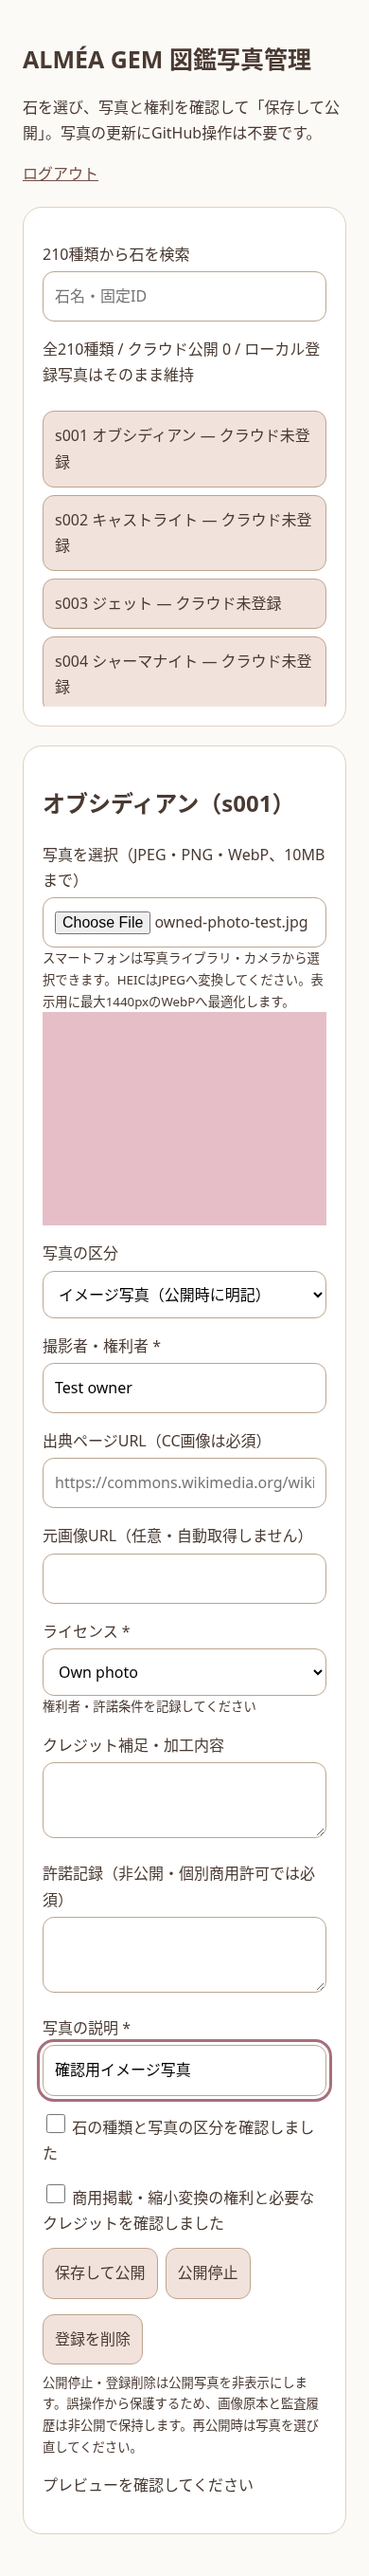
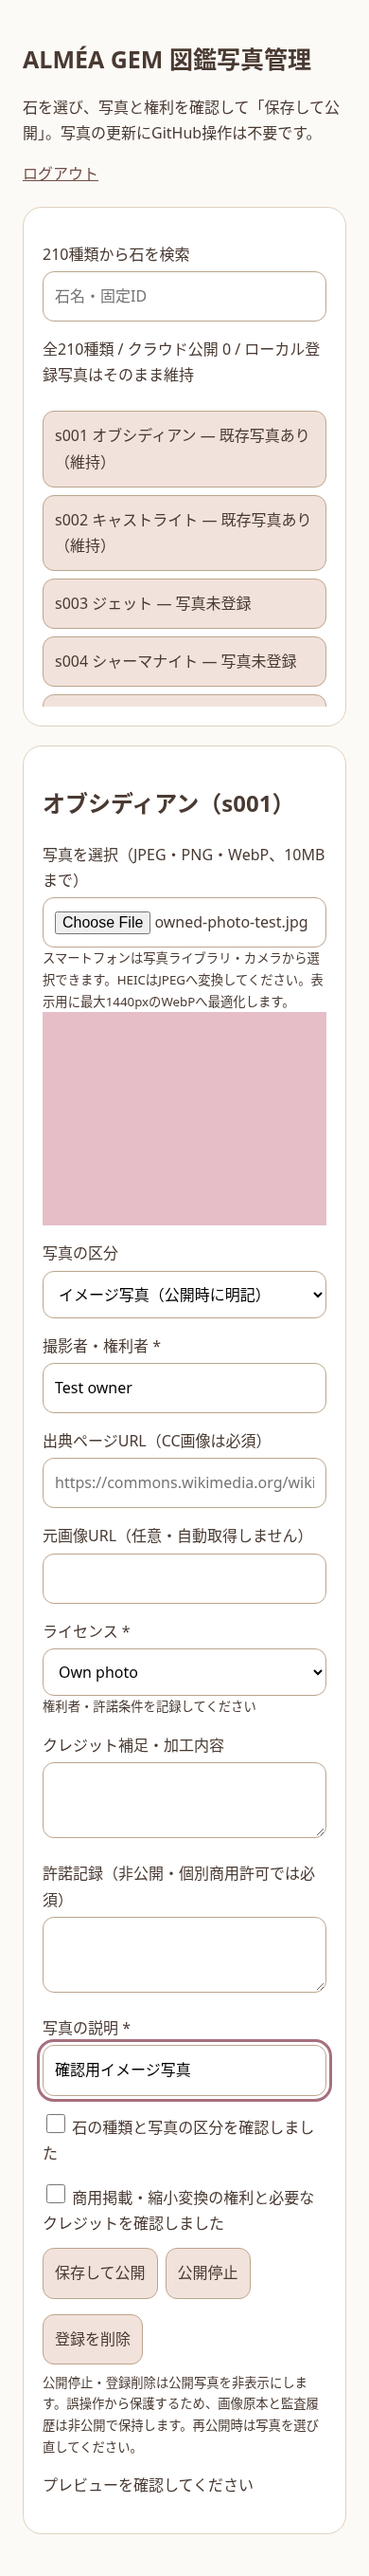
feat: preserve existing image registrations in cloud publishing workflow

diff --git a/cloud/photos/ui.ts b/cloud/photos/ui.ts
@@ -16,14 +16,14 @@ export const adminHtml = `<!doctype html><html lang="ja"><meta charset="utf-8"><
 <script>
 let data,selected,image='',busy=false,previewUrl='',generation=0;const $=id=>document.getElementById(id);const fields=['kind','photographer','sourceUrl','originalUrl','license','credit','permissionNote','alt'];
 function message(s){$('status').textContent=s}function row(){return data.photos.find(p=>p.stoneId===selected.id)}
-function render(){const term=$('search').value.trim().toLowerCase();const n=data.photos.filter(p=>p.state==='published').length;$('counts').textContent='全210種類 / クラウド公開 '+n+' / ローカル登録写真はそのまま維持';$('list').replaceChildren();data.stones.filter(s=>!term||(s.name+' '+s.id).toLowerCase().includes(term)).forEach(s=>{const p=data.photos.find(p=>p.stoneId===s.id),b=document.createElement('button');b.type='button';b.textContent=s.id+' '+s.name+' — '+(!p?'クラウド未登録':p.state==='published'?'公開中':p.state==='paused'?'公開停止':'登録削除');b.onclick=()=>choose(s);b.disabled=busy;$('list').append(b)})}
+function render(){const term=$('search').value.trim().toLowerCase();const n=data.photos.filter(p=>p.state==='published').length;$('counts').textContent='全210種類 / クラウド公開 '+n+' / ローカル登録写真はそのまま維持';$('list').replaceChildren();data.stones.filter(s=>!term||(s.name+' '+s.id).toLowerCase().includes(term)).forEach(s=>{const p=data.photos.find(p=>p.stoneId===s.id),b=document.createElement('button');b.type='button';b.textContent=s.id+' '+s.name+' — '+(!p?(data.localPhotos.includes(s.id)?'既存写真あり（維持）':'写真未登録'):p.state==='published'?'公開中':p.state==='paused'?'公開停止':'登録削除');b.onclick=()=>choose(s);b.disabled=busy;$('list').append(b)})}
 function choose(s){generation++;selected=s;image='';$('form').reset();$('file').value='';$('preview').hidden=true;$('target').textContent=s.name+'（'+s.id+'）';const p=row();fields.forEach(k=>$(k).value=p?.[k]||(k==='kind'?'real':k==='alt'?s.name+'の写真':''));$('identity').checked=false;$('rights').checked=false;if(p?.state==='published'){$('preview').src='/public/image/'+s.id+'?v='+p.revision;$('preview').hidden=false}licenseInfo();message('写真を選び、内容を確認してください');$('target').scrollIntoView({block:'start',behavior:'smooth'})}
-function licenseInfo(){$('licenseLink').textContent=data?.licenses[$('license').value]||'権利者・許諾条件を記録してください'}
+function licenseInfo(){if($('license').value==='AI-generated')$('kind').value='illustrative';$('licenseLink').textContent=data?.licenses[$('license').value]||'権利者・許諾条件を記録してください'}
 async function load(){const r=await fetch('/api/stones',{cache:'no-store'});if(!r.ok)throw Error('ログインまたは設定を確認してください');data=await r.json();render()}
 fields.forEach(k=>$(k).addEventListener('change',()=>{$('identity').checked=false;$('rights').checked=false}));
 $('search').oninput=render;$('license').onchange=licenseInfo;
 $('file').onchange=async()=>{const version=++generation;image='';$('preview').hidden=true;try{const f=$('file').files[0];if(!f)return;if(!['image/jpeg','image/png','image/webp'].includes(f.type)||f.size>10000000)throw Error('JPEG・PNG・WebP、10MB以内を選択してください（HEICは変換が必要です）');const bitmap=await createImageBitmap(f);if(bitmap.width*bitmap.height>40000000){bitmap.close();throw Error('4000万画素以内の写真を選択してください')}const scale=Math.min(1,1440/Math.max(bitmap.width,bitmap.height)),canvas=document.createElement('canvas');canvas.width=Math.max(1,Math.round(bitmap.width*scale));canvas.height=Math.max(1,Math.round(bitmap.height*scale));canvas.getContext('2d').drawImage(bitmap,0,0,canvas.width,canvas.height);bitmap.close();const blob=await new Promise(r=>canvas.toBlob(r,'image/webp',.85));if(!blob||blob.type!=='image/webp'||blob.size>2000000)throw Error('画像の最適化ができません。小さい画像または別のブラウザをお試しください');if(version!==generation)return;if(previewUrl)URL.revokeObjectURL(previewUrl);previewUrl=URL.createObjectURL(blob);$('preview').src=previewUrl;$('preview').hidden=false;const bytes=new Uint8Array(await blob.arrayBuffer());let str='';for(let i=0;i<bytes.length;i+=8192)str+=String.fromCharCode(...bytes.subarray(i,i+8192));if(version!==generation)return;image=btoa(str);$('identity').checked=false;$('rights').checked=false;message('プレビューを確認してください')}catch(e){message(e.message)}};
 async function act(action){if(busy)return;if(!selected)return message('石を選んでください');if(action==='publish'&&(!image||!$('form').reportValidity()))return message('写真・必須項目・確認チェックを確認してください');if(action!=='publish'&&!confirm(action==='pause'?'写真を公開停止しますか？':'写真の登録を削除し、公開を停止しますか？（原本は非公開で保管）'))return;const body={expectedRevision:row()?.revision||'',image,identityConfirmed:$('identity').checked,rightsConfirmed:$('rights').checked};fields.forEach(k=>body[k]=$(k).value);busy=true;$('form').querySelectorAll('input,select,textarea,button').forEach(b=>b.disabled=true);render();try{const r=await fetch('/api/photos/'+selected.id+'/'+action,{method:'POST',headers:{'Content-Type':'application/json','X-Almea-Action':'photo'},body:JSON.stringify(body)});const out=await r.json();if(!r.ok)throw Error(out.error);await load();message(action==='publish'?'保存・公開しました。公開サイトを再読込して確認してください。':'公開写真を非表示にしました。公開サイトを再読込して確認してください。')}catch(e){message(e.message+'。入力内容は保持されています。通信失敗の場合は再読込して登録状態を確認してください。')}finally{busy=false;$('form').querySelectorAll('input,select,textarea,button').forEach(b=>b.disabled=false);render()}}
 $('form').onsubmit=e=>{e.preventDefault();act('publish')};$('pause').onclick=()=>act('pause');$('delete').onclick=()=>act('delete');
-load().then(()=>{Object.keys(data.licenses).forEach(v=>{const o=document.createElement('option');o.value=v;o.textContent=v;$('license').append(o)})}).catch(e=>message(e.message));
+load().then(()=>{Object.keys(data.licenses).forEach(v=>{const o=document.createElement('option');o.value=v;o.textContent=v==='AI-generated'?'AI-generated（イメージ写真のみ）':v;$('license').append(o)})}).catch(e=>message(e.message));
 </script></html>`;

diff --git a/cloud/photos/worker.ts b/cloud/photos/worker.ts
@@ -2,6 +2,7 @@ import type { D1Database, R2Bucket } from '@cloudflare/workers-types';
 import { createRemoteJWKSet, jwtVerify } from 'jose';
 import stones from '../../src/content/stones.json' with { type: 'json' };
 import { adminHtml } from './ui';
+import localPhotos from '../../src/content/images.json' with { type: 'json' };
 
 export interface Env {
   DB: D1Database;
@@ -18,6 +19,7 @@ const licenses: Record<string, string> = {
   CC0: 'https://creativecommons.org/publicdomain/zero/1.0/',
   'Own photo': '',
   'Commercial permission': '',
+  'AI-generated': '',
 };
 for (const kind of ['by', 'by-sa']) {
   for (const version of ['2.0', '2.5', '3.0', '4.0']) {
@@ -82,8 +84,13 @@ export function validateMetadata(value: Record<string, unknown>): Metadata {
       );
     }
   }
+  if (license === 'AI-generated' && value.kind !== 'illustrative')
+    throw Error('AI生成画像はイメージ写真として登録してください');
   const permissionNote = text('permissionNote', 3000);
-  if (license === 'Commercial permission' && permissionNote.length < 10)
+  if (
+    ['Commercial permission', 'AI-generated'].includes(license) &&
+    permissionNote.length < 10
+  )
     throw Error('商用利用許諾の記録を10文字以上で残してください');
   return {
     kind: value.kind,
@@ -214,6 +221,9 @@ export async function handle(
     const rows = await env.DB.prepare('SELECT * FROM photos').all<Row>();
     return response({
       stones: stones.map((s) => ({ id: s.id, name: s.name })),
+      localPhotos: localPhotos
+        .filter((p) => p.status === 'approved')
+        .map((p) => p.stoneId),
       photos: rows.results.map((r) => ({
         ...publicMeta(r),
         permissionNote: (JSON.parse(r.metadata) as Metadata).permissionNote,
@@ -298,12 +308,29 @@ export async function handle(
         httpMetadata: { contentType: 'image/webp' },
       });
     } else {
-      if (!before)
-        throw Error(
-          'クラウド登録済み写真がありません。既存の静的写真の非表示は写真登録後に操作してください',
+      if (before) {
+        objectKey = before.object_key;
+        metadata = JSON.parse(before.metadata) as Metadata;
+      } else {
+        const local = localPhotos.find(
+          (p) => p.stoneId === id && p.status === 'approved',
         );
-      objectKey = before.object_key;
-      metadata = JSON.parse(before.metadata) as Metadata;
+        if (!local) throw Error('登録写真がありません');
+        // Only a display tombstone: never delete or rewrite the existing Git image.
+        metadata = {
+          kind: local.imageKind === 'ai-generated' ? 'illustrative' : 'real',
+          photographer: local.photographer,
+          sourceUrl: local.pageUrl,
+          originalUrl: local.imageUrl,
+          license: local.license,
+          licenseUrl: local.licenseUrl,
+          credit: local.creditText || '',
+          alt: local.alt || '天然石の写真',
+          permissionNote:
+            '既存静的写真の公開停止記録。元のファイルと権利記録を保持。',
+        };
+        objectKey = '';
+      }
     }
     const state =
       action === 'publish'

diff --git a/tests/cloud-photos.test.ts b/tests/cloud-photos.test.ts
@@ -179,6 +179,9 @@ test('metadata refuses unsafe URLs, missing confirmations, NC and missing permis
   ).toThrow();
   expect(() => validateMetadata({ ...meta, rightsConfirmed: false })).toThrow();
   expect(() =>
+    validateMetadata({ ...meta, license: 'AI-generated', kind: 'real' }),
+  ).toThrow();
+  expect(() =>
     validateMetadata({ ...meta, license: 'CC BY-NC 4.0' }),
   ).toThrow();
   expect(() =>
@@ -232,4 +235,17 @@ test('Access signed JWT accepts only the configured audience and administrator e
   } finally {
     mocked.mockRestore();
   }
+});
+
+test('existing static photos can be hidden without deleting original files', async () => {
+  const paused = await handle(
+    request('/api/photos/s002/pause', { expectedRevision: '' }),
+    env,
+    auth,
+  );
+  expect(paused.status).toBe(200);
+  expect((await handle(request('/public/image/s002'), env)).status).toBe(404);
+  const manifest = await (await handle(request('/public/photos'), env)).text();
+  expect(manifest).toContain('s002');
+  expect(manifest).not.toContain('既存静的写真の公開停止記録');
 });

diff --git a/docs/cloud-photo-publishing.md b/docs/cloud-photo-publishing.md
@@ -68,15 +68,18 @@ workers.devを安易に一般公開して管理画面を運用しないでくだ
 7. **保存して公開**。図鑑を再読込して写真・クレジットを確認する。普段の登録でCommit/Push/Actionsは不要。
 8. 差替えは同じ石を選んで新画像を登録。公開停止・登録削除も同じ画面から操作する。
 
+AI生成済みの画像を手動登録する場合はAI-generatedを選択し、イメージ写真として利用規約・商用利用条件の確認記録を残します。実物写真としての登録は拒否します。AI画像生成・検索APIは追加していません。
+
 CC BY/CC BY-SAはWikimedia Commonsのファイル出典ページと正確なバージョンを入力します。CC0も出典と権利者を記録します。商用不可/改変不可/不明な権利は選択肢に含めません。イメージ写真も利用権が必要で、石の同定と区分の正確性は管理者が確認します。
 
 ## 既存データ・削除の扱い
 
 - ローカル管理画面・候補・承認済みmanifest・写真ファイルはそのまま。新規クラウド写真だけが固定ID単位で優先表示される。
 - クラウド未登録の石は従来の静的写真・色調プレースホルダーを使用する。
-- クラウド管理の一覧は210種類を表示するが、ローカル静的写真の存在と「クラウド未登録」は別の状態。ローカル画像を自動移動・再承認しない。
+- クラウド管理の一覧は210種類を表示するが、既存静的写真は「既存写真あり（維持）」として区別する。ローカル画像を自動移動・再承認しない。
+- 既存静的写真も管理画面から表示を停止できる（元のファイルは削除せず非表示状態だけ追加）。
 - 公開停止/登録削除はtombstone（非表示状態）を保存し、公開目録からクレジットを除外、画像URLを404にする。古い公開URLも同じ固定IDで状態確認するため停止する。
-- 原本・監査履歴の**物理削除は未実装**。誤操作保護のため非公開保持。保存容量が増えるため、保持期間と物理削除の方針は運用開始前に決める。
+- 保存用画像・監査履歴の**物理削除は未実装**。アップロード時に最適化したWebPを保存し、元のJPEGやEXIFは保存しません。誤操作保護のため非公開保持。保存容量が増えるため、保持期間と物理削除の方針は運用開始前に決める。
 - 既存のGitHub Pages内にある静的写真ファイルのURL自体はクラウドから削除できない。撤回が必要な古い静的写真は、一度だけ通常のビルドから除外する作業が必要。
 - 写真API障害時は既存の静的表示を維持する。クラウド写真は静的ファイルにコピーしない。既存静的写真の権利撤回をAPIの公開停止だけに依存しない。
 - イメージ写真のラベルと、色調プレースホルダーの「実物ではない」説明は区別する。
@@ -94,3 +97,12 @@ R2書込後、D1のバッチで公開参照と履歴を原子的に変更。revi
 ローカルD1/R2エミュレーターでアップロード・公開配信・権利情報の維持・更新競合・公開停止・差替え・登録削除を検証します。ブラウザではPCとスマホ幅で操作を確認します。これは実Cloudflareアカウント・実サイトでの公開完了とは区別します。
 
 公開先への接続はアカウント・独自ドメイン・Access許可メール・R2請求条件の確認後。実際に所有権を持つテスト写真1枚を管理画面から登録し、PC/スマホの公開図鑑で確認するところが、接続後の受入テストです。現時点で公開URLへ反映済みとは報告しません。図鑑のnoindex、無料/有料境界、販売準備中は維持します。
+
+## 今回の検証結果
+
+- ユニット47件成功。D1/R2エミュレーターでアップロード→公開画像取得→競合拒否→公開停止→差替え→登録削除、既存静的写真の非表示を確認。
+- RSA署名付きテストJWTで正しいAccess issuer/audience/許可メールのみ認証成功、未ログイン・別メール・別audience・別Originを拒否。実Cloudflareのログイン接続は未検証。
+- Playwright 48件成功。375/390/430/768/1280/1440pxで管理UIとアップロードを確認。公開ページへの動的画像反映、イメージ写真表示、クレジット、画像デコードまで確認。
+- スクリーンショットは [スマホ390px](screenshots/cloud-photos/admin-fixture-390.png)、[PC1440px](screenshots/cloud-photos/admin-fixture-1440.png)、[公開ページのテスト表示](screenshots/cloud-photos/public-fixture.png)。写真は権利問題のない**単色テスト画像**で、実物の石として採用していません。
+- テストの管理ログインはテストアダプターだけで代替。デプロイするWorkerにローカル認証バイパスはありません。`photos:dev`だけではAccess保護を回避できません。
+- lint/型チェック、図鑑本番ビルド、210項目・SEO・非公開ファイル除外監査、Workerのdry-runバンドルを確認。実Cloudflareへのデプロイ・新規アカウント作成・有料契約・リモートSQL実行は行っていません。

diff --git a/README.md b/README.md
@@ -10,7 +10,7 @@
 - canonical・OGP・構造化データ・サイトマップ・robots・内部リンク
 - PC／スマホテスト、データ検証、公開ビルドからの非公開データ除外チェック
 
-**プレビューはnoindexです。有料販売や本番公開は自動で有効になりません。** 写真の初期採用は0枚。未確認の鉱物名・硬度・出典は推測で埋めず、図鑑上で明示しています。書籍画像・元の長文・私有在庫データは含みません。
+**プレビューはnoindexです。有料販売や本番公開は自動で有効になりません。** 写真は承認済みのものだけを掲載します。未確認の鉱物名・硬度・出典は推測で埋めず、図鑑上で明示しています。書籍画像・元の長文・私有在庫データは含みません。
 
 ## ローカルで動かす
 
@@ -33,6 +33,8 @@ npm run test:e2e
 クラウド環境の既存Chromiumでは `PLAYWRIGHT_CHROMIUM_EXECUTABLE=/usr/bin/chromium npm run test:e2e` も利用できます。公開先は `SITE_URL`、`BASE_PATH`、`PUBLIC_LAUNCH` でビルド時に設定します。秘密情報をGitに追加しないでください。
 
 ## 編集と写真
+
+管理画面の「保存して公開」だけで更新するCloudflare写真サービスも実装しています。初回のAccess・R2・D1接続は未実施です。[設計・費用・初回設定と操作手順](docs/cloud-photo-publishing.md)を参照してください。既存のローカル管理画面は引き続き使えます。
 
 1. `.env.example` を `.env` にコピー。
 2. `EDITOR_PASSWORD` に20〜256文字の専用パスフレーズを自分の端末で設定。既存のManagerのパスワードやAPIキーは使用しません。
